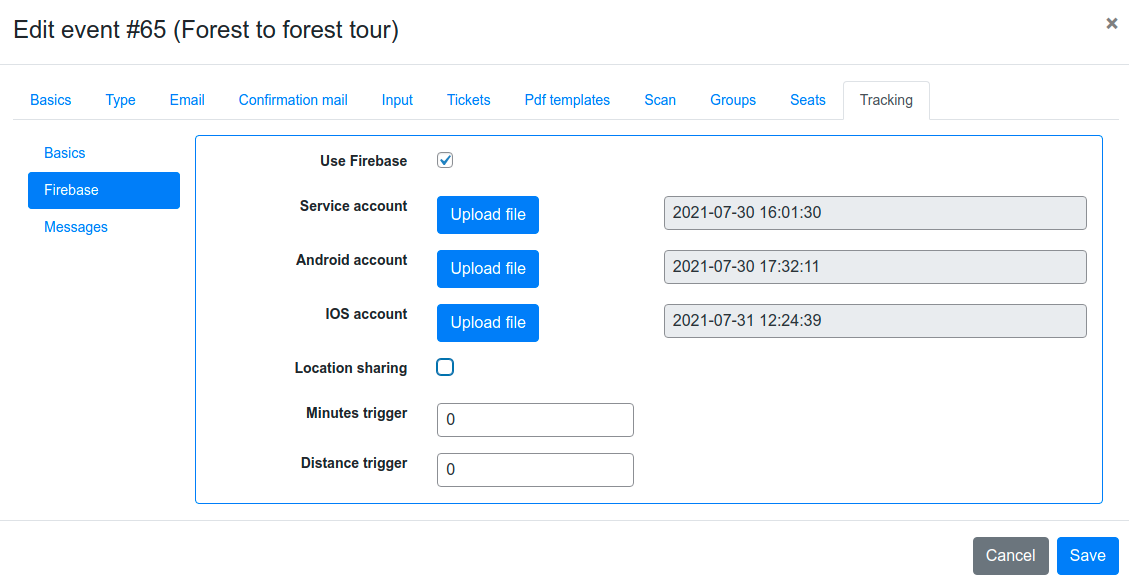
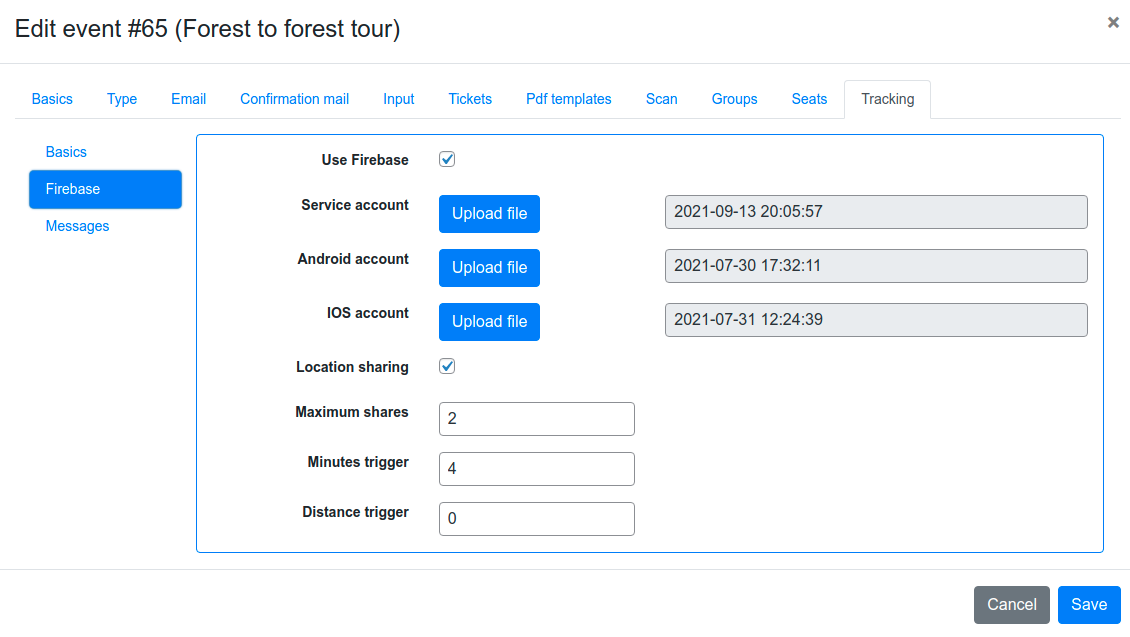
Fast Events v1.2

diff --git a/docs/advanced/firebase.rst b/docs/advanced/firebase.rst
@@ -2,13 +2,15 @@ Firebase
 ========
 If your event is a sporting event and uses tracks then the *FE Tracking* App can be used, as described in the `tracking tab <../usage/events.html#tracking-tab>`_.
 
-However, you can go one step further with your event by providing real-time track updates and news messages from the event organizer to the users of the *FE Tracking* App.
+However, you can go one step further with your event by providing real-time track updates real-time news messages from the event organizer to the users of the *FE Tracking* App.
+It is also possible to give users the option of sharing their track in real time with family and friends as they travel it. These features require *FE Tracking v1.3 or higher*.
 The benefits for users of the *FE Tracking* App are:
 
 #. Always the right track
 #. If the organisation updates the Info screen in the *FE Tracking* App, this is also immediately available
 #. News messages from the event organisation are immediately available and can be played via Text-To-Speech while the App is recording the track in the background.
    Of course, this only works if you are wearing a (Bluetooth) headset when, for example, you have the phone in a bracelet.
+#. Family and friends can see where the participant is on the track, how far they have travelled, average speed, distance/time to the next checkpoint or service station, ...
 
 ----
 
@@ -50,30 +52,41 @@ Video time-index
    .. sourcecode:: text
       :linenos:
 
-       rules_version = '2';
-       service cloud.firestore {
-         match /databases/{database}/documents {
+      rules_version = '2';
+      service cloud.firestore {
+        match /databases/{database}/documents {
 
-           function isValid() {
-             return request.auth != null && request.auth.token.ticket;
-           }
+          function isValid() {
+              return request.auth != null && request.auth.token.ticket;
+          }
 
-           match /news/{message} {
-             allow read: if isValid();
-             allow write: if false;
-           }
+          function isShareReader() {
+              return request.auth != null && request.auth.token.sharing;
+          }
 
-           match /tracks/{track} {
-             allow read: if isValid();
-             allow list: if false;
-             allow write: if false;
-           }
+          match /news/{message} {
+            allow read: if isValid();
+            allow write: if false;
+          }
 
-           match /tickets/{ticket} {
-             allow read: if isValid();
-             allow list: if false;
-             allow write: if false;
-           }
+          match /tracks/{track} {
+              allow read: if isValid() || isShareReader();
+            allow list: if false;
+            allow write: if false;
+          }
+
+          match /tickets/{ticket} {
+              allow read: if isValid();
+            allow list: if false;
+            allow write: if false;
+          }
+
+          match /shares/{share} {
+              match /locations/{location} {
+              allow read: if isShareReader() && request.auth.token.share_id == share;
+              allow write: if isValid() && request.auth.token.share_id == share;
+            }
+          }
 
         }
       }
@@ -102,7 +115,24 @@ Firebase event fields
            :alt: Firebase fields
 
 Now upload all 3 files you have downloaded in the video to there corresponding elements.
-The ``Location sharing``, ``Minutes trigger`` and ``Distance trigger`` fields are not used at the moment, they will be part of an upcoming *FE Tracking* release.
+
+Remaining fields
+^^^^^^^^^^^^^^^^
+**Location sharing**
+   If switched on the users of the FE Tracking App(> v1.3) can share the track while it is recording, so family and friend stay up to date where they are on the track.
+**Maximum shares**
+   Is the maximum number of times the share can be used. Mind you: If someone uses the share and immediately discards it and then reinstalls it, this counts as 1 more.
+**Minutes trigger**
+   If this parameter and the ``Distance trigger`` are both ``0``. Every location update is instantly shared with all share users. This is realtime.
+   If this parameter is greater than 0, it means that all location updates are collected until the time expires.
+   This only happens at the next location update, so it is not an exact number of minutes. People using the share will then receive a burst of location updates.
+**Distance trigger**
+   Pretty much the same as the ``Minutes trigger`` only this time updates are collected until the user travelled a distance greater that this parameter.
+   Mind you: if this parameter is not zero or the other one is not zero, they must bothe be set to a non-zero value.
+   During tracking and when sharing is on, a new burst of location updates is sent to the shares if either the distance has been exceeded or the time has been exceeded.
+   When the burst is performed, the distance measurement is restarted from zero and the minute trigger is also restarted from zero.
+   When the user stop tracking any leftover location updates are flushed to the shares.
+
 Finally ``Save`` the event.
 
 ----
@@ -150,6 +180,21 @@ As you can see for this case the free plan won't do the trick, you have to upgra
 But if you do the actual math you will find out that the actual charge is very minimal. In this case you will be charged for 400.000 - 50.000 (daily free quota) = 350.000 ``reads``
 and a few extra writes (20.000 free per day). At the end the invoice will be less than 1 Euro.
 
+Location sharing
+^^^^^^^^^^^^^^^^
+If you enable location sharing it is crucial to understand how this impacts your read and write bundles. Suppose you have an event with 1000 participants and a 10 km walking track.
+You have enabled ``Location sharing`` and both ``Minutes trigger`` and ``Distance trigger`` are **0** and you allow a maximum of 2 shares.
+This would mean that every location update triggers 1 write and 2 reads. Based on a ``Distance filter`` of 25m it means the number of writes would be 400 and the number of reads 800 ( # shares * 400).
+As you know the ``Distance filter`` is elastic. The faster you go the longer the distance becomes. So the numbers are most likely smaller.
+For the whole event this boils down to ~400.000 writes and ~800.000 reads. Still a very small amount of money.
+
+.. warning::
+   The battery consumption with these settings is obviously more than with a ``Distance trigger`` or an update of, for example, once every 3 minutes.
+
+But you can save on the costs by for instance setting the ``Distance trigger`` to 200m and the ``Minutes trigger`` to 1 minute. Remember it is never exactly 200m.
+It means that when the next location update comes in and the new distance is greater than or equal to 200m that the location updates are shared in bulk with the shares.
+The math then becomes (worst case): 10.000m/200m = 50 writes en 100 reads.
+
 .. note::
    **No rights can be derived from these examples and amounts.** They are only an indication in a theoretical situation.
    To help avoid unexpected charges on your bill, set monthly budgets and alerts.
@@ -161,7 +206,7 @@ and a few extra writes (20.000 free per day). At the end the invoice will be les
 Do's and Don't
 --------------
 #. Always first define the whole event, including the ``Basics`` tab of the `Tracking tab <../usage/events.html#tracking-tab>`_ and ``Save`` the event before you start with Firebase.
-#. Do not download the IOS and Android files again from the Firebase Console if you already sold tickets.
+#. Do not download new IOS and Android files from the Firebase Console if you already sold tickets.
    If you do, all users that already downloaded the ticket in the *FE Tracking* App will loose access and have to download the ticket again.
 #. If the event is finished and you want to delete everything, you first have to disable ``Tracking`` in the `Basics tab <../usage/events.html#basics-tab>`_.
    Then all tickets, orders and the event can be deleted. In the Firebase Console you need to select ``Project settings`` and at the bottom select :guilabel:`Delete project`.

diff --git a/docs/getting-started/overview.rst b/docs/getting-started/overview.rst
@@ -112,10 +112,10 @@ the left the date (and time the page was created.
 
 Deeplink
 ^^^^^^^^
-It is possible to include a deeplink to download the ticket into the FE Tracking on the “*Thank you*” page,
+It is possible to include a deeplink to download the ticket into the *FE Tracking* on the “*Thank you*” page,
 if you our dealing with a sports event and have enabled the :guilabel:`Tracking` checkbox.
 It’s up to you to do this in combination with an email or just omit the email (See `Events (Basic tab) <../usage/events.html#basics-tab>`_, :guilabel:`Emails` checkbox)
-and use the deeplink. You can put this deeplink anywhere in the “Thank you” page with a shortcode.
+and use the deeplink. You can put this deeplink anywhere in the “*Thank you*” page with a shortcode.
 If there are multiple etickets, the FE Tracking App will ask which ticket needs to be downloaded. Use the following shortcode:
 
 .. code-block:: text

diff --git a/docs/advanced/api-events.rst b/docs/advanced/api-events.rst
@@ -155,6 +155,7 @@ List events
                     "tr_help_url": "https://vinyl-openair.com/info/",
                     "tr_help_tel": "0123456789",
                     "location_sharing": true,
+                    "maximum_shares": 1,
                     "minutes_trigger": 0,
                     "distance_trigger": 0
                 },
@@ -236,6 +237,7 @@ List events
        :widths: auto
 
        "1.0", "Introduced."
+       "1.2", "Added '*maximum_shares*'."
 
 ----
 

diff --git a/docs/getting-started/changelog.rst b/docs/getting-started/changelog.rst
@@ -1,6 +1,11 @@
 Changelog
 =========
 
+v1.2 (26 Okt 2021)
+------------------
+* New: For sport events -> It is possible to give users the option of sharing their track in real time with family and friends as they travel it.
+  This feature requires `FE Tracking <https://fe-tracking.fast-events.eu/>`_ (v1.3 or higher)
+
 v1.1 (29 Sep 2021)
 ------------------
 * New: ``{%DEEPLINK%}`` parameter in emails or ``[fe-ticket downloadtext"Download in App"]`` shortcode in orderpage ->

diff --git a/docs/advanced/webhooks-events.rst b/docs/advanced/webhooks-events.rst
@@ -142,6 +142,7 @@ New event
             "tr_help_url": "https://vinyl-openair.com/info/",
             "tr_help_tel": "0123456789",
             "location_sharing": true,
+            "maximum_shares": 1,
             "minutes_trigger": 0,
             "distance_trigger": 0
         }
@@ -155,6 +156,7 @@ New event
    :widths: auto
 
    "1.0", "Introduced."
+   "1.2", "Added '*maximum_shares*'."
 
 ----
 

diff --git a/docs/getting-started/introduction.rst b/docs/getting-started/introduction.rst
@@ -38,6 +38,9 @@ Examples: First aid stations on the track, eateries on the track, checkpoints on
 
 Realtime track updates and news messages from the event organizer. Load tickets directly into the App from the ``order thank you`` page.
 
+While walking, cycling, ... share your track with your family and friends so they can see live where you are.
+
+
 .. raw:: html
 
    <div style="clear:both"></div>
